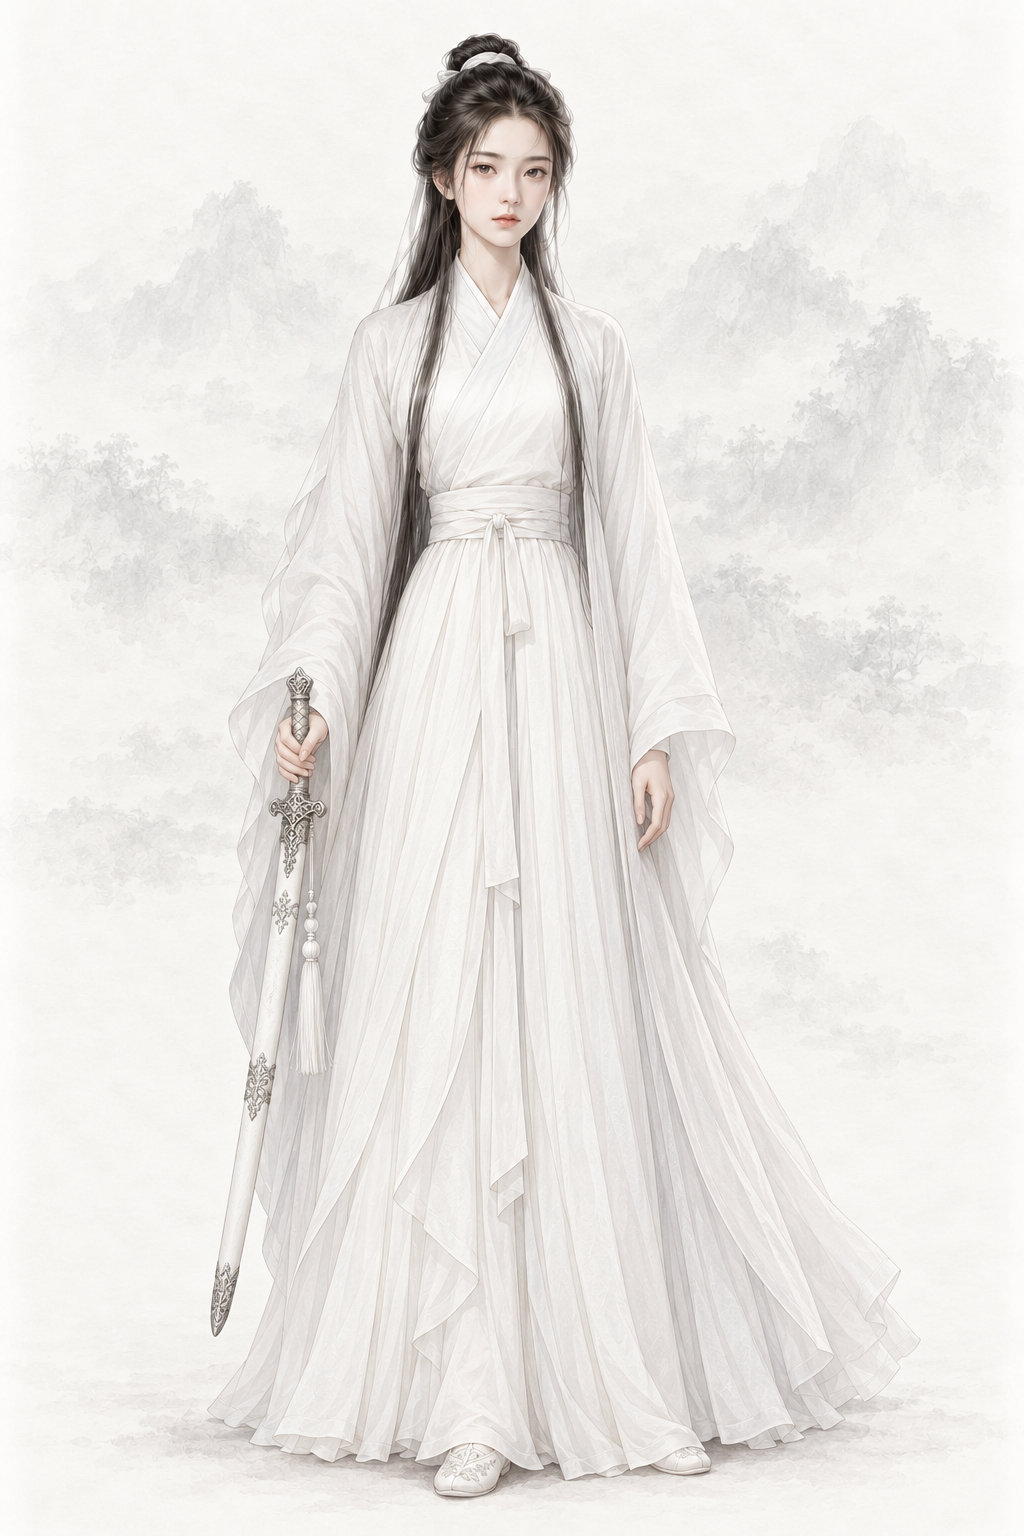
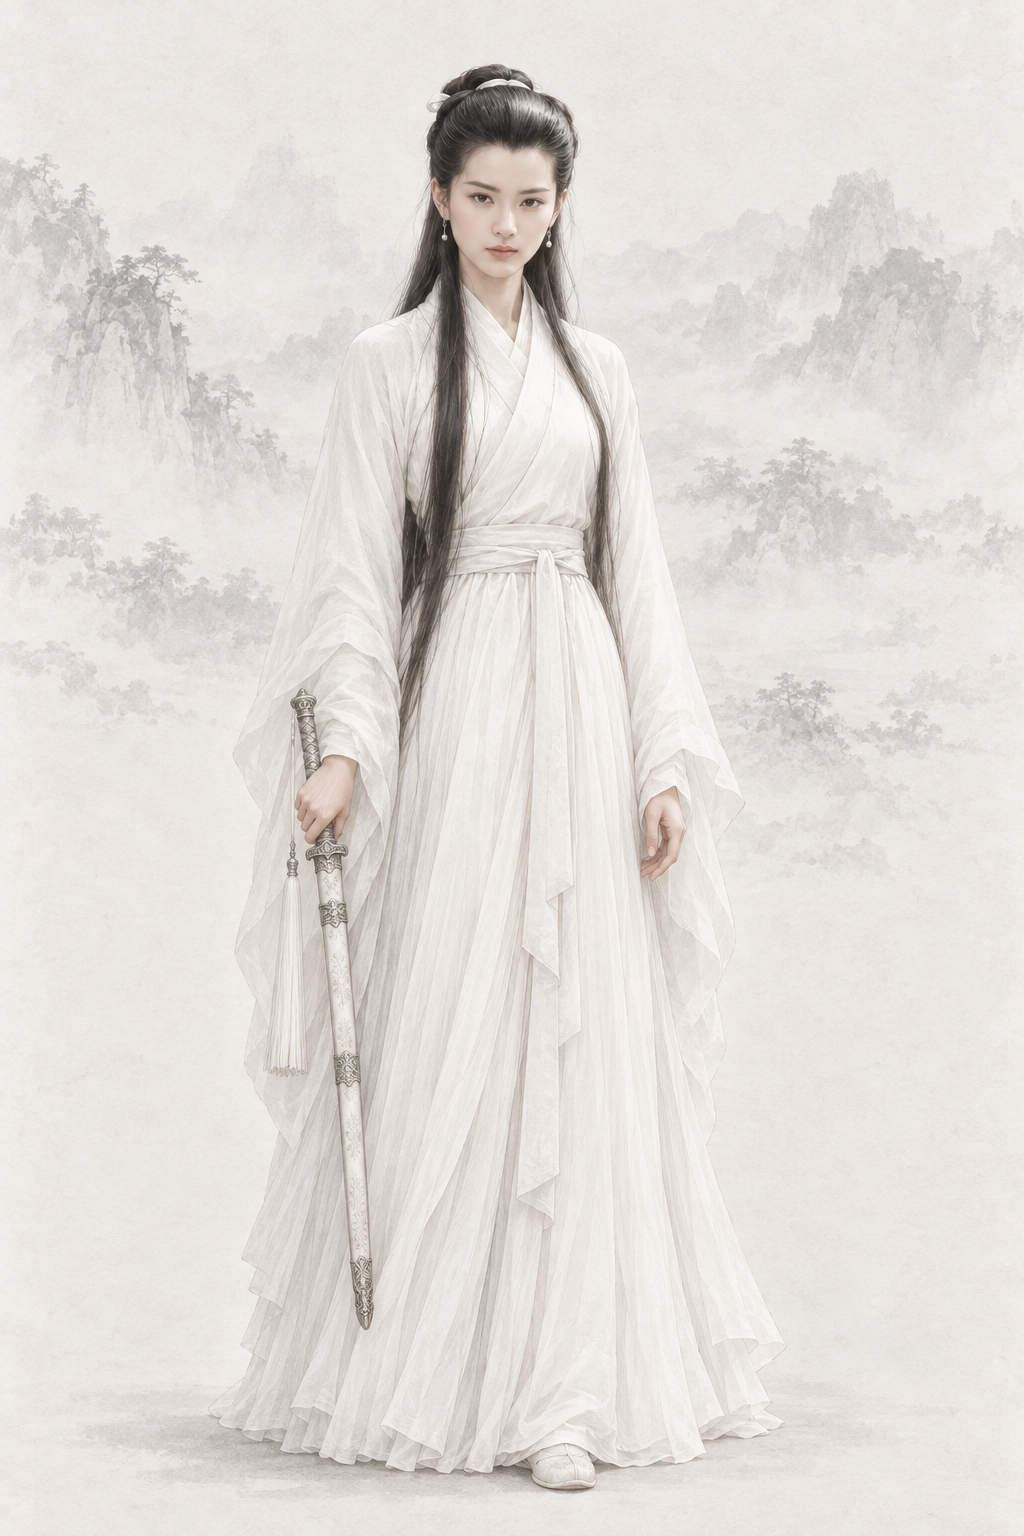
assets(character): por_npc_xiaolongnv__ch03_youth_jueqing_base 小龙女（codex · AR-32 经典剧照 + 基线）
参考 1995 TVB《神雕侠侣》 剧照（xiaolongnv_1995_liruotong_caption_verified_nearfront.jpg）与两张同性别基线重出；提示词写回、frontmatter 加 classic_ref。

diff --git a/assets/default/prompts/characters/ch03-shendiao/npc_xiaolongnv.md b/assets/default/prompts/characters/ch03-shendiao/npc_xiaolongnv.md
@@ -19,13 +19,39 @@ status: redo
 realism_revision: user_identity_pose_20261001
 redo_reason: "面容近乎复刻 1995 版演员（肖像风险），按原著“除黑发外全身雪白、肌肤苍白少血色、清丽绝俗、冷若冰雪”用文字原创重做，连同五幅场景"
 reference_upload:
+- .agents/coord/imagegen-reference/identity-20261001/xiaolongnv_1995_liruotong_caption_verified_nearfront.jpg
 - assets/default/baseline/character/female/ref_npc_wangyuyan__ch01_base01.png
+- assets/default/baseline/character/female/ref_npc_xiaolongnv__ch03_base01.png
 codex_prompt_rev: 2026-10-02
+classic_ref:
+  version: 1995 TVB《神雕侠侣》
+  stills:
+  - .agents/coord/imagegen-reference/identity-20261001/xiaolongnv_1995_liruotong_caption_verified_nearfront.jpg
 ---
 
 # 小龙女 · 人物写实修正
 
 ## Gemini 提示词
+
+> 2026-10-02 AR-32 重出（5 号出图员，codex exec · image_gen）：主要角色改为参考经典影视版剧照加项目基线生成。上传顺序：1995 TVB《神雕侠侣》 剧照 1 张（xiaolongnv_1995_liruotong_caption_verified_nearfront.jpg），最后两张为同性别画风基线（缩小版 JPEG）。剧照只借造型、气质与面部特征，画面按项目画风重绘、不复制照片。上一版（AR-31 文字版）保留在下一节作历史。
+
+```text
+生成一张 2:3 竖幅全身人物立绘：单人、单一视角、完整全身——头顶、双手、双脚和手中器物的两端都在画面内，四周留出自然空白；人物站姿自然，身体基本朝向正面，头部端正（不歪头、不仰不俯），镜头平视。
+【画风】写实手绘古风人物插画，与本项目写实武侠角色立绘同一画风，像功力深厚的画师用细腻笔触画出的真实美人。手绘插画质感，不是 CG 渲染：不要过度光滑的皮肤、完美对称的五官、塑料高光、过度锐利的发丝；保留自然的笔触和细微不完美。肌肤细腻自然，看得见极细的肤理和自然的左右不对称，不磨皮、不油亮、不打粉；头发是一缕缕自然的发丝和少量碎发；布料看得出经纬纹理、厚薄和自然垂坠的褶皱，干净完整；整体设色低饱和、雅致；柔和的自然光从左上方照来，明暗过渡自然，不打舞台光、轮廓光或美颜柔光。不是照片，不是三维渲染，不是动漫或游戏 CG，也不是油画（没有厚涂笔触和画布纹理）。
+【背景】不透明的暖浅灰色纸底，只在远处有极淡的水墨远山和薄雾，大面积留白；人物与背景明暗分明、轮廓边缘干净完整（后续要自动抠图），水墨和纸纹只在背景里，不侵入人物和衣服；脚下只有很淡的一点接触阴影。
+【人物】小龙女，《神雕侠侣》古墓派掌门，杨过的师父与妻子；在绝情谷得到淑女剑之后、十六年分离之前。清冷出尘、心思单纯，对杨过一往情深。
+【年龄与体态】二十多岁的成年女子，身形修长轻盈。成年女性的五官骨相与身体比例（约 7 头身），衣着完整端庄、不透明、不暴露、不性感化。
+【经典造型】以九十年代中期经典港剧里那位白衣胜雪的小龙女为蓝本（见剧照）：清丽的鹅蛋脸、清澈而清冷的眼睛、素净的唇色；乌黑长发大半披在背后、头顶挽一个小髻系白色丝带；一身素白长衣长裙；肌肤胜雪、清冷出尘，美得不食人间烟火。
+【面容】原著写她除了一头黑发之外全身雪白，面容秀美绝俗，只是肌肤少了一层血色、显得苍白；清丽秀雅，神色冰冷淡漠。具体为：清丽的长鹅蛋脸、下颌线柔和，眉毛细长平直、颜色偏淡，眼睛清澈而冷、眼神淡漠出尘，鼻梁细直，唇色极淡，肌肤苍白如雪、几乎没有血色（久居古墓），素面无妆。清丽绝俗的绝美女子。
+【发式】乌黑长发大部分披在背后，头顶挽一个小髻，用白色丝带束住。
+【服饰】一身素白的长衣长裙：多层轻柔但不透明的白绢，交领右衽，腰束白色丝带，白色软鞋。
+【道具】右手握一柄长剑（淑女剑），完整入素白剑鞘，剑尖朝下。
+【姿态与神情】静静站立，像雪中的一枝白梅；神情清冷淡漠，眼神却安静坚定。
+【不要】画面里不要任何文字、题款、印章、签名、水印、边框、分格或多视图；不要第二个人；不要幼态（童颜、娃娃脸、婴儿肥、儿童或少年身材、大头小身）；不要塑料感皮肤、磨皮美颜、网红脸（尖下巴大眼高鼻的模板脸）、过度对称、浓妆、偶像式打光、蜡像感；不要照片质感、三维渲染或动漫大眼；不要歪头、斜镜头；不要多指、缺指（设定的伤残除外）、手与器物粘连或悬空；汉式交领必须右衽（穿着者的左襟压在右襟上），不要左衽（设定为少数民族服制的除外），不要水平镜像；不要现代物品、发光特效、法阵或能量光。不要红润气色或浓妆；不要仙女飘带、发光仙气；不要彩色衣裙。
+【参考图】随提示词上传的参考图共 3 张，按顺序：第 1 张是这个角色经典影视造型的剧照：借鉴其发型、服饰、配色、标志道具、气质和面部特征，让人一眼认出是这个角色；但必须重新绘制成本项目的画风，不要照片质感，不要照搬剧照的构图、光影、背景和姿势，也不要做成照片修图；剧照与上文文字有出入时，以上文文字为准。最后两张是本项目的立绘画风基线：画风、用色、光线、质感和暖浅灰纸底加淡水墨的背景以它们为准——精细写实的数字手绘插画，不是油画，不要厚涂笔触和画布纹理；基线图里人物的长相、年龄、发型、服饰和姿势一律不取。
+```
+
+## AR-31 文字版 Gemini 提示词（2026-10-02 凌晨；AR-32 剧照版之前，历史，不再用于出图）
 
 > 2026-10-02 AR-31 改写（1 号出图员，codex exec · image_gen 出图）：重要人物借鉴经典影视造型，只写成文字——不写演员名、不上传剧照、原创面孔；主角和美人画得好看，去 AI 味，禁止幼态。出图时上传两张同性别基线立绘作画风参考（放在最后）。审核组原稿保留在下一节作历史。
 
